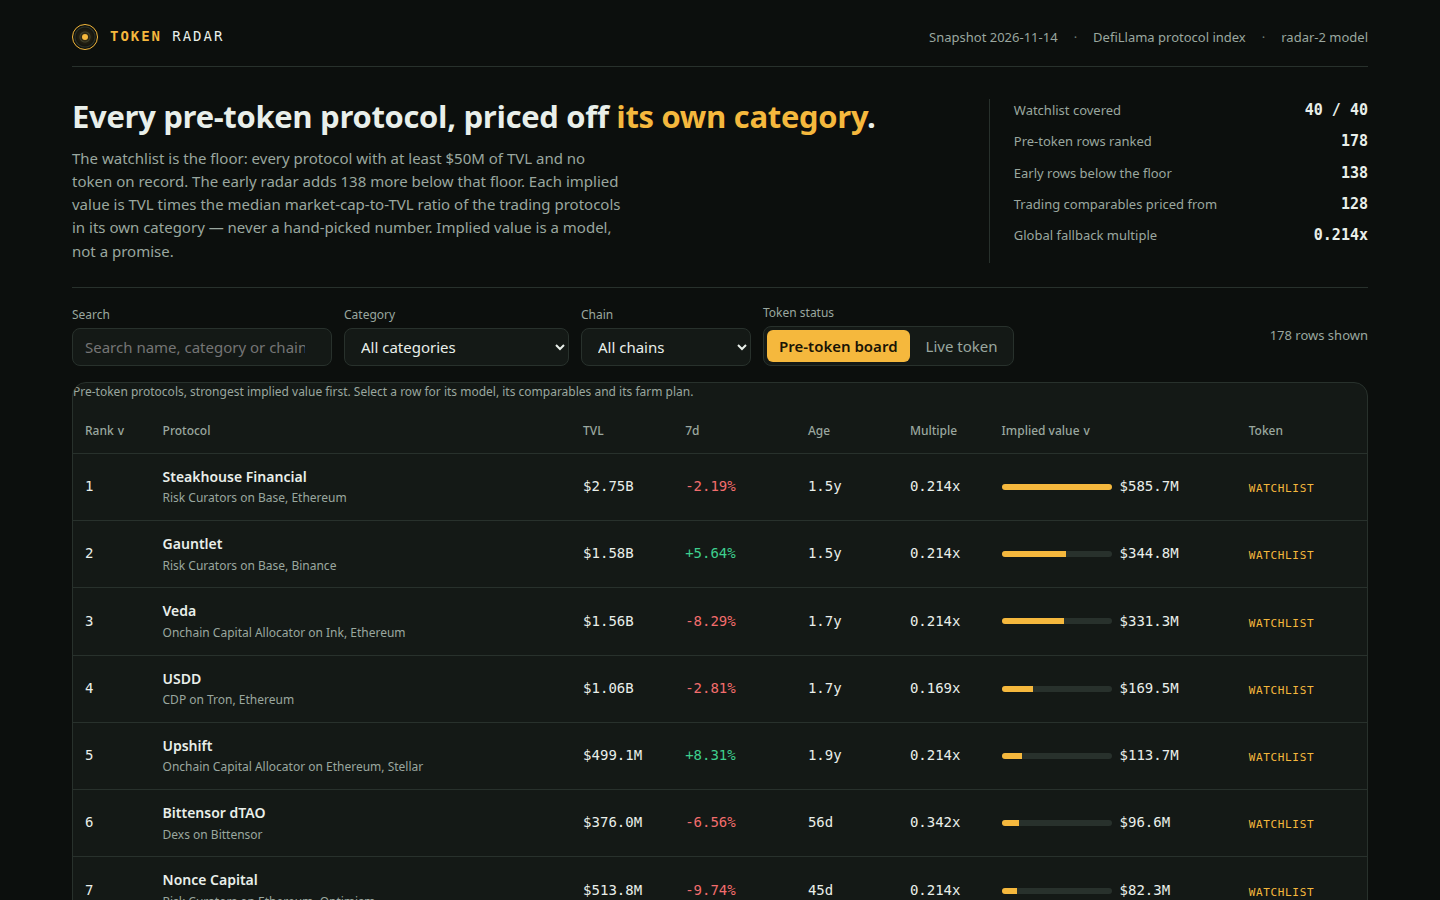
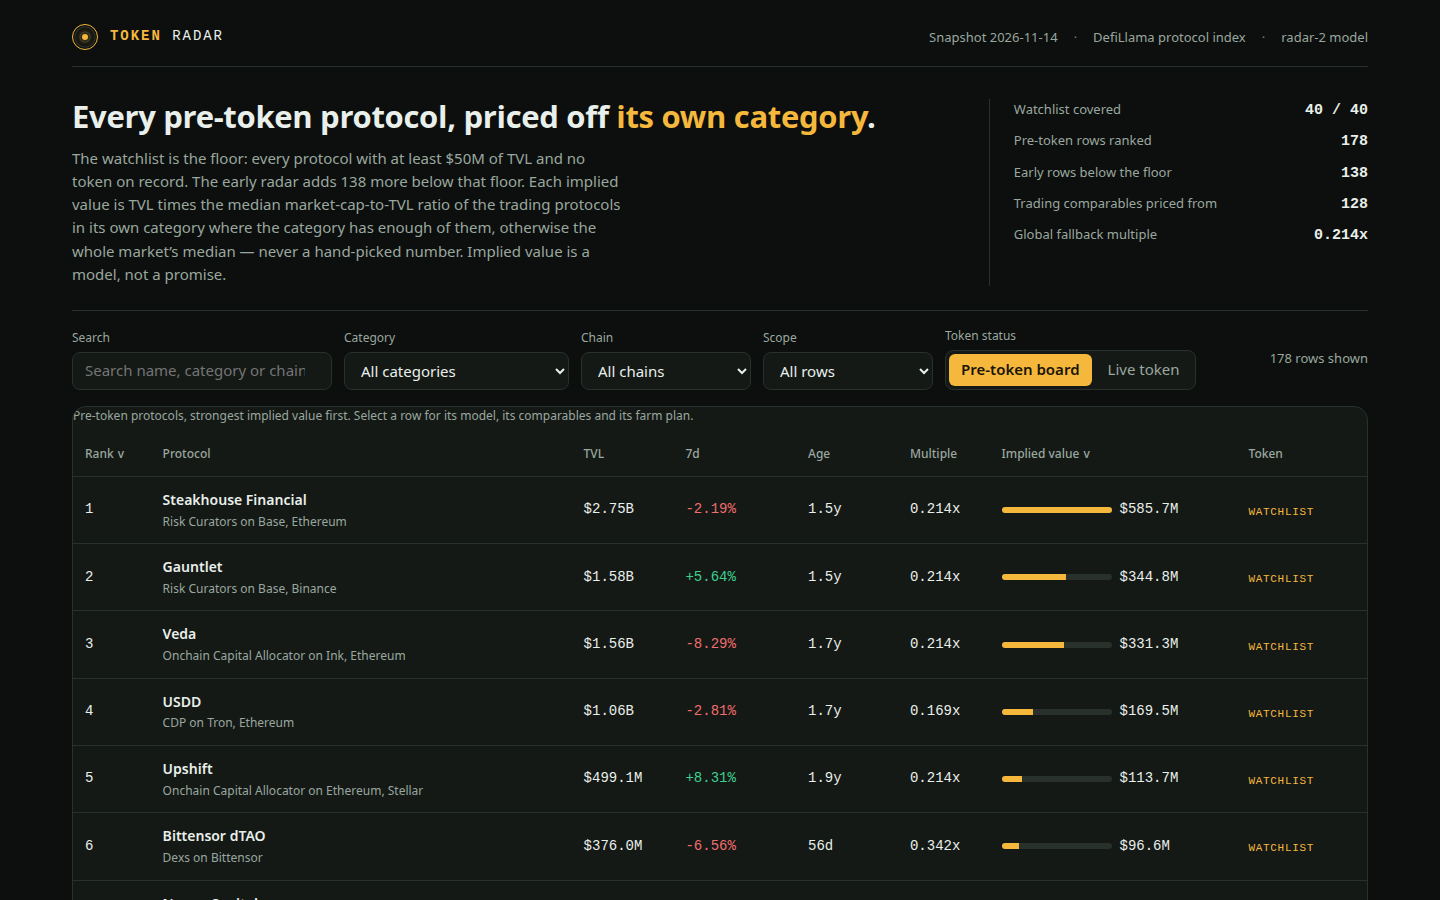
Radar improvements: category-specific farm plans, scope filter, formatted detail multipliers
- farm plans: 7 new category branches (liquidity manager, CeDeFi, anchor BTC,
  decentralized BTC, payments, governance incentives, crypto card) so no board
  row falls back to the generic deposit step; payments weekly rhythm added
- dashboard: watchlist / early-radar scope filter (search, category, chain,
  scope; hash-persisted), lede now states the global-fallback rule honestly
- detail view: growth/tenure/breadth multipliers shown to 3 decimals instead
  of raw floats
- README added (referral xxbm6cca); .makefun/owner.json added (DWsx3...)
- screenshots re-shot from the new dashboard (board, USDD detail, Lending)

diff --git a/dashboard/radar.js b/dashboard/radar.js
@@ -82,6 +82,13 @@ function radarActionFor(row, capital, chain) {
   if (c.indexOf('rwa') >= 0) return 'Buy $' + capital + " of the protocol's yield-bearing asset on " + chain + ' and hold it.';
   if (c.indexOf('insurance') >= 0) return 'Buy $' + capital + ' of cover from ' + name + ' on ' + chain + ' and keep the policy active.';
   if (c.indexOf('basis') >= 0) return 'Deposit $' + capital + " into " + name + "'s basis strategy on " + chain + ' and hold the position.';
+  if (c.indexOf('liquidity manager') >= 0) return 'Deposit $' + capital + " into " + name + "'s managed liquidity vault on " + chain + ' and leave the position in range.';
+  if (c.indexOf('cedefi') >= 0) return 'Deposit $' + capital + " of USDC into " + name + "'s CeDeFi vault on " + chain + ' and hold the vault shares.';
+  if (c.indexOf('anchor btc') >= 0) return 'Lock $' + capital + ' of BTC-backed collateral in ' + name + ' on ' + chain + ', borrow against it once, and repay the loan.';
+  if (c.indexOf('decentralized btc') >= 0) return 'Bridge $' + capital + ' of BTC through ' + name + ' to ' + chain + ' and put the wrapped BTC to work in its app.';
+  if (c.indexOf('payments') >= 0) return 'Send $' + capital + " through " + name + "'s payment app on " + chain + ' and keep a steady weekly payment rhythm.';
+  if (c.indexOf('governance incentives') >= 0) return 'Lock $' + capital + " in " + name + "'s governance vault on " + chain + ' and vote on every proposal while the position is open.';
+  if (c.indexOf('crypto card') >= 0) return 'Order the ' + name + ' card, spend $' + capital + ' through it on ' + chain + ', and keep the card active each week.';
   if (c === 'chain') return 'Bridge $' + capital + " to the chain and use " + name + "'s native app: one swap and one stake.";
   return 'Deposit $' + capital + ' of USDC into ' + name + ' on ' + chain + ' and leave the position open.';
 }
@@ -92,6 +99,7 @@ function radarWeeklyActionFor(row) {
   if (c.indexOf('dex') >= 0) return 'Each week, rebalance or top up the pool position once, and route one swap through the protocol.';
   if (c.indexOf('lend') >= 0 || c.indexOf('cdp') >= 0) return 'Each week, adjust the supply once, or borrow and repay a small amount so the position stays active.';
   if (c.indexOf('staking') >= 0 || c.indexOf('restak') >= 0) return 'Each week, restake the rewards or add a little more stake so the position keeps growing.';
+  if (c.indexOf('payments') >= 0) return 'Each week, send one payment through the app so the volume stays steady.';
   return 'Each week, make one more qualifying action: a deposit, a swap, a borrow-and-repay, or a vote when one is live.';
 }
 
@@ -129,7 +137,7 @@ function radarFarmSteps(row) {
   if (typeof window === 'undefined' || !window.RADAR) return;
   var DATA = window.RADAR;
   var app = document.getElementById('board');
-  var state = { q: '', category: 'all', chain: 'all', tab: 'pre-token', sort: 'implied', dir: -1, selected: null };
+  var state = { q: '', category: 'all', chain: 'all', scope: 'all', tab: 'pre-token', sort: 'implied', dir: -1, selected: null };
 
   function fmtUsd(n) {
     if (n === null || n === undefined || !isFinite(n)) return 'n/a';
@@ -186,6 +194,7 @@ function radarFarmSteps(row) {
     if (params.get('q')) state.q = params.get('q');
     if (params.get('category')) state.category = params.get('category');
     if (params.get('chain')) state.chain = params.get('chain');
+    if (params.get('scope') === 'watchlist' || params.get('scope') === 'early') state.scope = params.get('scope');
     if (params.get('tab')) state.tab = params.get('tab');
     if (params.get('sort')) state.sort = params.get('sort');
     if (params.get('dir') === '1' || params.get('dir') === '-1') state.dir = parseInt(params.get('dir'), 10);
@@ -199,6 +208,7 @@ function radarFarmSteps(row) {
       if (state.q) params.set('q', state.q);
       if (state.category !== 'all') params.set('category', state.category);
       if (state.chain !== 'all') params.set('chain', state.chain);
+      if (state.scope !== 'all') params.set('scope', state.scope);
       if (state.tab !== 'pre-token') params.set('tab', state.tab);
       if (state.sort !== 'implied') params.set('sort', state.sort);
       if (state.dir !== -1) params.set('dir', String(state.dir));
@@ -213,6 +223,8 @@ function radarFarmSteps(row) {
     return DATA.rows.filter(function (r) {
       if (state.category !== 'all' && (r.category || 'Uncategorized') !== state.category) return false;
       if (state.chain !== 'all' && (r.chains || []).indexOf(state.chain) < 0) return false;
+      if (state.scope === 'watchlist' && !r.on_watchlist) return false;
+      if (state.scope === 'early' && r.on_watchlist) return false;
       if (!q) return true;
       var hay = [r.name, r.slug, r.category, (r.chains || []).join(' ')].join(' ').toLowerCase();
       return hay.indexOf(q) >= 0;
@@ -251,7 +263,7 @@ function radarFarmSteps(row) {
     return el('section', { class: 'lede' },
       el('div', null,
         el('h1', null, 'Every pre-token protocol, priced off ', el('span', { class: 'accent-word', text: 'its own category' }), '.'),
-        el('p', { text: 'The watchlist is the floor: every protocol with at least $' + Math.round(DATA.floor_usd / 1e6) + 'M of TVL and no token on record. The early radar adds ' + DATA.early_size + ' more below that floor. Each implied value is TVL times the median market-cap-to-TVL ratio of the trading protocols in its own category — never a hand-picked number. Implied value is a model, not a promise.' })
+        el('p', { text: 'The watchlist is the floor: every protocol with at least $' + Math.round(DATA.floor_usd / 1e6) + 'M of TVL and no token on record. The early radar adds ' + DATA.early_size + ' more below that floor. Each implied value is TVL times the median market-cap-to-TVL ratio of the trading protocols in its own category where the category has enough of them, otherwise the whole market\u2019s median \u2014 never a hand-picked number. Implied value is a model, not a promise.' })
       ),
       el('div', { class: 'facts' },
         el('div', { class: 'fact' }, el('span', { text: 'Watchlist covered' }), el('b', { text: DATA.watchlist_size + ' / ' + DATA.watchlist_size })),
@@ -278,12 +290,19 @@ function radarFarmSteps(row) {
       chains.map(function (c) { return el('option', { value: c, text: c, selected: c === state.chain ? 'selected' : null }); })
     );
     chainSelect.addEventListener('change', function () { state.chain = chainSelect.value; writeHash(); render(); });
+    var scopeSelect = el('select', { id: 'scope', 'aria-label': 'Filter by scope' },
+      el('option', { value: 'all', text: 'All rows' }),
+      el('option', { value: 'watchlist', text: 'Watchlist only', selected: state.scope === 'watchlist' ? 'selected' : null }),
+      el('option', { value: 'early', text: 'Early radar only', selected: state.scope === 'early' ? 'selected' : null })
+    );
+    scopeSelect.addEventListener('change', function () { state.scope = scopeSelect.value; writeHash(); render(); });
     var pre = el('button', { type: 'button', 'aria-pressed': state.tab === 'pre-token' ? 'true' : 'false', text: 'Pre-token board', onclick: function () { state.tab = 'pre-token'; writeHash(); render(); } });
     var live = el('button', { type: 'button', 'aria-pressed': state.tab === 'live' ? 'true' : 'false', text: 'Live token', onclick: function () { state.tab = 'live'; writeHash(); render(); } });
     return el('div', { class: 'controls' },
       el('div', { class: 'field' }, el('label', { for: 'q', text: 'Search' }), search),
       el('div', { class: 'field' }, el('label', { for: 'category', text: 'Category' }), catSelect),
       el('div', { class: 'field' }, el('label', { for: 'chain', text: 'Chain' }), chainSelect),
+      el('div', { class: 'field' }, el('label', { for: 'scope', text: 'Scope' }), scopeSelect),
       el('div', { class: 'field' }, el('span', { class: 'sub', text: 'Token status' }), el('div', { class: 'tabs' }, pre, live)),
       el('span', { class: 'count', text: state.tab === 'pre-token' ? filteredRows().length + ' rows shown' : DATA.live.length + ' live-token protocols' })
     );
@@ -435,10 +454,10 @@ function radarFarmSteps(row) {
         el('div', null, el('span', { text: 'TVL' }), el('b', { class: 'num', text: fmtUsd(row.tvl_usd) })),
         el('div', null, el('span', { text: 'Category multiple' }), el('b', { class: 'num', text: fmtMult(row.multiple) + ' (' + row.comparables + ' comparables, ' + (row.multiple_source === 'category' ? 'own category' : 'global fallback') + ')' })),
         el('div', null, el('span', { text: 'Seven-day growth' }), el('b', { class: 'num', text: fmtPct(row.change_7d) })),
-        el('div', null, el('span', { text: 'Growth multiplier' }), el('b', { class: 'num', text: String(row.growth_multiplier) })),
+        el('div', null, el('span', { text: 'Growth multiplier' }), el('b', { class: 'num', text: row.growth_multiplier.toFixed(3) })),
         el('div', null, el('span', { text: 'Age with no token' }), el('b', { class: 'num', text: fmtAge(row.age_days) })),
-        el('div', null, el('span', { text: 'Tenure multiplier' }), el('b', { class: 'num', text: String(row.tenure_multiplier) })),
-        el('div', null, el('span', { text: 'Chain breadth' }), el('b', { class: 'num', text: String(row.breadth_multiplier) + ' (' + (row.chains ? row.chains.length : 0) + ' chains)' })),
+        el('div', null, el('span', { text: 'Tenure multiplier' }), el('b', { class: 'num', text: row.tenure_multiplier.toFixed(3) })),
+        el('div', null, el('span', { text: 'Chain breadth' }), el('b', { class: 'num', text: row.breadth_multiplier.toFixed(3) + ' (' + (row.chains ? row.chains.length : 0) + ' chains)' })),
         el('div', { class: 'total' }, el('span', { text: 'Implied value' }), el('b', { class: 'num', text: fmtUsd(row.implied_value_usd) }))
       ),
       el('p', { class: 'note', text: 'Model ' + DATA.model_version + ': the same function scores every protocol. The page recomputes this row as ' + fmtUsd(recomputed.implied) + (matches ? ', the same number board.json carries.' : ', which differs from the board: the data would be stale.') + ' This is an estimate, not a price.' })
@@ -477,7 +496,7 @@ function radarFarmSteps(row) {
   render();
   window.addEventListener('hashchange', function () {
     var before = state.selected;
-    state.q = ''; state.category = 'all'; state.chain = 'all'; state.selected = null;
+    state.q = ''; state.category = 'all'; state.chain = 'all'; state.scope = 'all'; state.selected = null;
     readHash();
     if (before && !state.selected && dialog.open) dialog.close();
     render();

diff --git a/lib/farm.ts b/lib/farm.ts
@@ -117,6 +117,25 @@ export function actionFor(p: SnapshotProtocol, capital: number, chain: string): 
   if (c.includes('rwa')) return `Buy $${capital} of the protocol's yield-bearing asset on ${chain} and hold it.`;
   if (c.includes('insurance')) return `Buy $${capital} of cover from ${name} on ${chain} and keep the policy active.`;
   if (c.includes('basis')) return `Deposit $${capital} into ${name}'s basis strategy on ${chain} and hold the position.`;
+  if (c.includes('liquidity manager')) {
+    return `Deposit $${capital} into ${name}'s managed liquidity vault on ${chain} and leave the position in range.`;
+  }
+  if (c.includes('cedefi')) return `Deposit $${capital} of USDC into ${name}'s CeDeFi vault on ${chain} and hold the vault shares.`;
+  if (c.includes('anchor btc')) {
+    return `Lock $${capital} of BTC-backed collateral in ${name} on ${chain}, borrow against it once, and repay the loan.`;
+  }
+  if (c.includes('decentralized btc')) {
+    return `Bridge $${capital} of BTC through ${name} to ${chain} and put the wrapped BTC to work in its app.`;
+  }
+  if (c.includes('payments')) {
+    return `Send $${capital} through ${name}'s payment app on ${chain} and keep a steady weekly payment rhythm.`;
+  }
+  if (c.includes('governance incentives')) {
+    return `Lock $${capital} in ${name}'s governance vault on ${chain} and vote on every proposal while the position is open.`;
+  }
+  if (c.includes('crypto card')) {
+    return `Order the ${name} card, spend $${capital} through it on ${chain}, and keep the card active each week.`;
+  }
   if (c === 'chain') return `Bridge $${capital} to the chain and use ${name}'s native app: one swap and one stake.`;
   return `Deposit $${capital} of USDC into ${name} on ${chain} and leave the position open.`;
 }
@@ -127,6 +146,7 @@ function weeklyActionFor(p: SnapshotProtocol): string {
   if (c.includes('dex')) return 'Each week, rebalance or top up the pool position once, and route one swap through the protocol.';
   if (c.includes('lend') || c.includes('cdp')) return 'Each week, adjust the supply once, or borrow and repay a small amount so the position stays active.';
   if (c.includes('staking') || c.includes('restak')) return 'Each week, restake the rewards or add a little more stake so the position keeps growing.';
+  if (c.includes('payments')) return 'Each week, send one payment through the app so the volume stays steady.';
   return 'Each week, make one more qualifying action: a deposit, a swap, a borrow-and-repay, or a vote when one is live.';
 }
 

diff --git a/main.ts b/main.ts
@@ -6,7 +6,10 @@
 // repository's dashboard/ and screenshots/ to /output, and writes /output/dossier.json with the
 // vendored make.fun library. The dashboard is a static page with no network: dashboard/index.html,
 // dashboard/radar.css and dashboard/radar.js read /output/data.js and re-derive every row's model
-// and farm plan from the same figures, so the page and the board agree.
+// and farm plan from the same figures, so the page and the board agree. The farm plan covers
+// every category on the board with its own action (liquidity managers, CeDeFi, BTC-anchored and
+// payment protocols included), and the page adds a watchlist / early-radar scope filter on top
+// of its search, category and chain filters.
 //
 // Outside the grader's container, MAKEFUN_OUTPUT_DIR stands in for /output:
 //   mkdir -p out && MAKEFUN_OUTPUT_DIR=out node main.ts --input ../token-radar-01-kit/input/snapshot.json

diff --git a/README.md b/README.md
@@ -1,0 +1,39 @@
+# Token Radar
+
+A token launch radar: every pre-token protocol on the snapshot's watchlist plus the early
+ones below its floor, ranked by an implied value calibrated on the categories' own trading
+comparables, with a farm plan for each one.
+
+Built by an AI agent for make.fun's "Build the best token launch radar" bounty
+($1,325 in USDC): https://make.fun/bounty/token-radar-01
+
+Try make.fun with my referral link: https://make.fun/r/xxbm6cca
+
+## How it works
+
+- `main.ts` reads the sealed snapshot (`/input/snapshot.json`), scores every rankable
+  pre-token protocol with the comparables model in `lib/model.ts`, and writes the ranked
+  board to `/output/board.json`, the dashboard dataset to `/output/data.js`, the dashboard
+  and screenshots to `/output`, and `/output/dossier.json` with the vendored library.
+- Implied value = TVL x the median market-cap-to-TVL ratio of the trading protocols in
+  the protocol's own category (at least 3 of them, otherwise the whole market's median),
+  adjusted for seven-day growth, age with no token, and chain breadth. No protocol name
+  is ever special-cased.
+- Every row carries a seven-step farm plan from `lib/farm.ts`, derived from the
+  protocol's own category, chains, TVL, age and growth, with a cost and a time per step.
+- The dashboard (`dashboard/`) is a static page with no network: it re-derives every
+  row's model and farm plan from the same figures, so the page and the board agree.
+  Search, category, chain and watchlist/early scope filters, sortable columns, a
+  per-protocol detail view, and a live-token view of the comparables.
+
+## Run it
+
+```sh
+mkdir -p out && MAKEFUN_OUTPUT_DIR=out node main.ts --input <snapshot.json>
+```
+
+Node 22, standard library only. The program runs twice with byte-identical output.
+
+## License
+
+MIT — see `LICENSE`.
